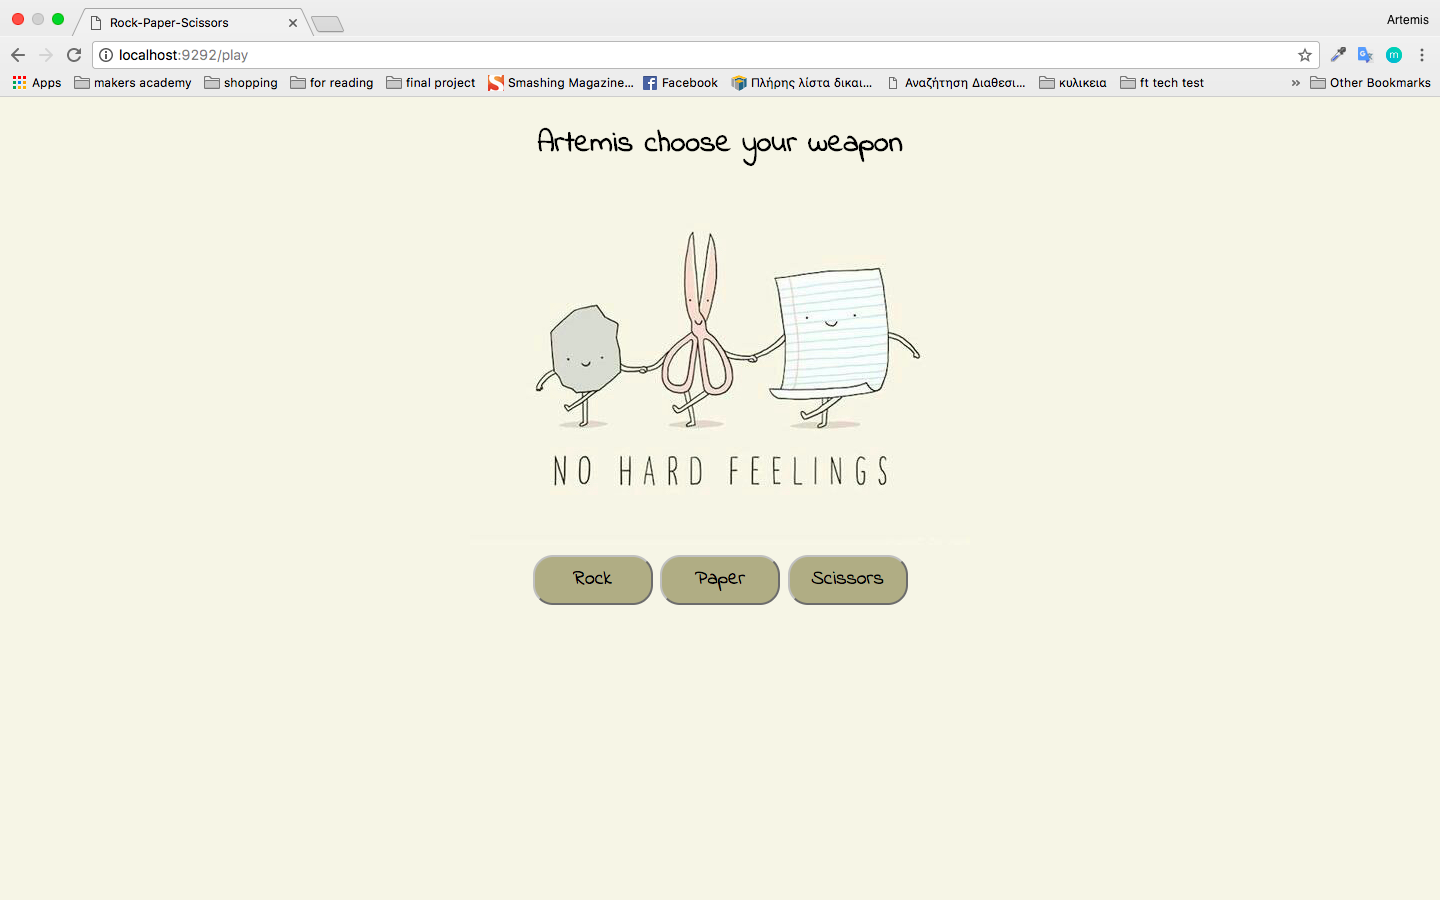
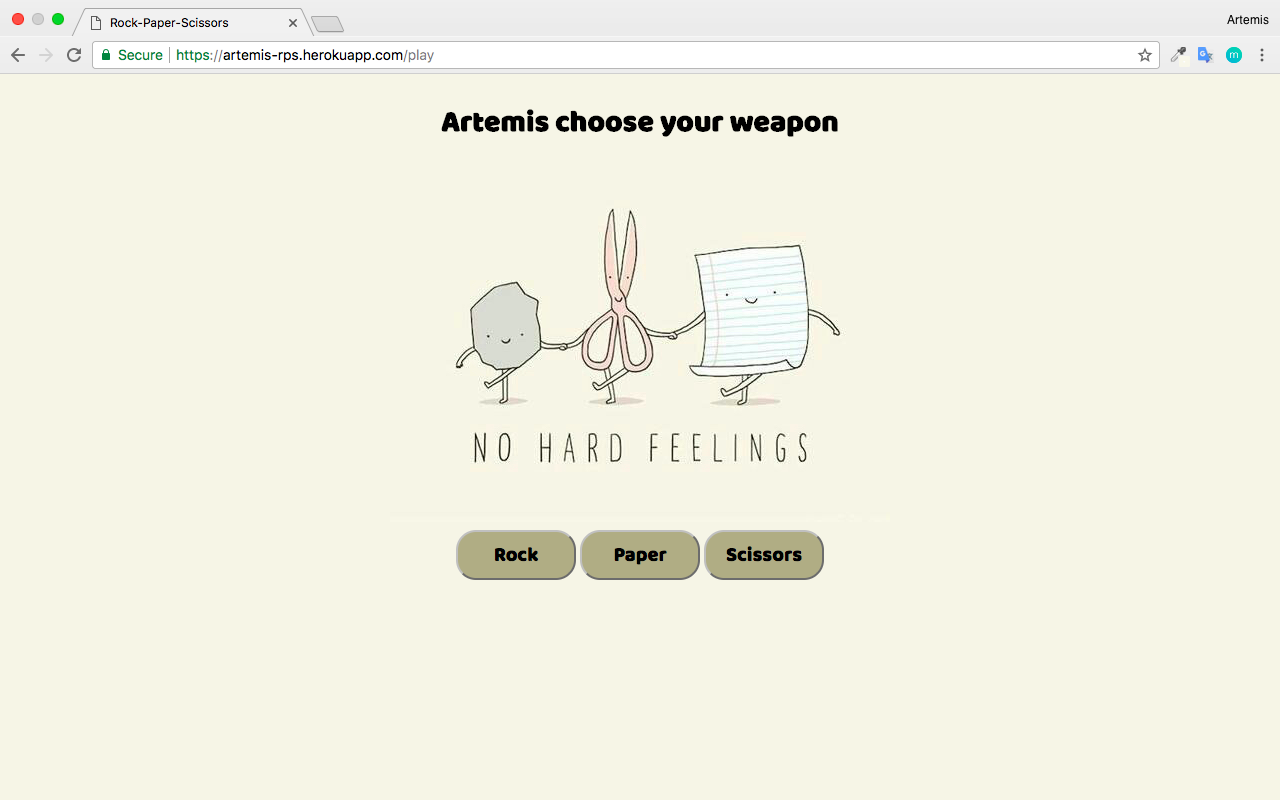
update README.md

Changed region(s): [[0.3438, 0.25, 0.6562, 0.75], [0.0, 0.0, 1.0, 0.1875], [0.9688, 0.0, 1.0, 0.0312]]

diff --git a/public/mystyle.css b/public/mystyle.css
@@ -6,7 +6,7 @@ font-family: 'Baloo Chettan', cursive;
 }
 
 h1 {
-  font-size: 70px;
+  font-size: 60px;
   font-weight: bold;
 
 }

diff --git a/README.md b/README.md
@@ -1,13 +1,21 @@
 # RPS Challenge
 
 ### Instructions
+To play visit https://artemis-rps.herokuapp.com/
 
 ```sh
-- git clone https://github.com/artemisxen/rps-challenge.git
-- bundle
-- rackup
-- visit http://localhost:9292/
+$ git clone https://github.com/artemisxen/rps-challenge.git
+$ cd rps-challenge
+$ bundle install
+$ rackup
 ```
+Visit http://localhost:9292/
+
+For tests run:
+```sh
+$ rspec
+```
+
 
 ### Features
 
